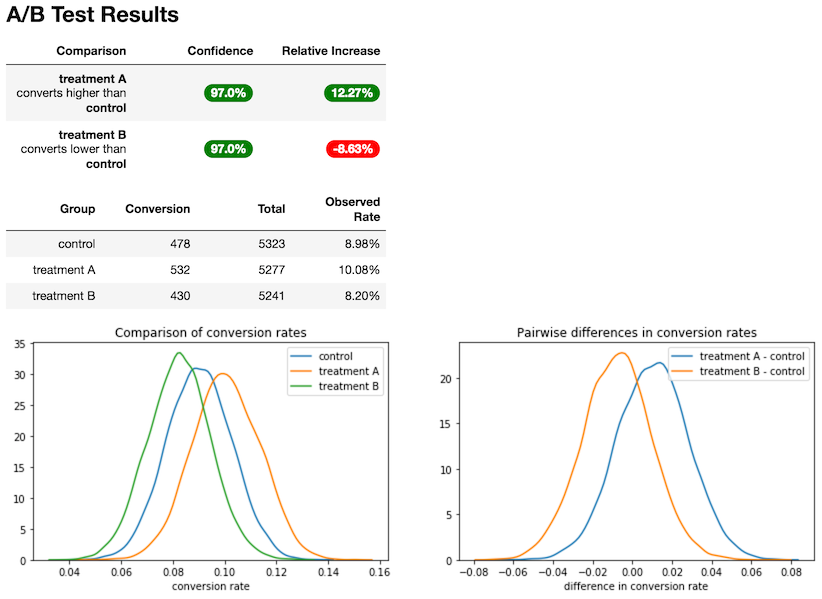
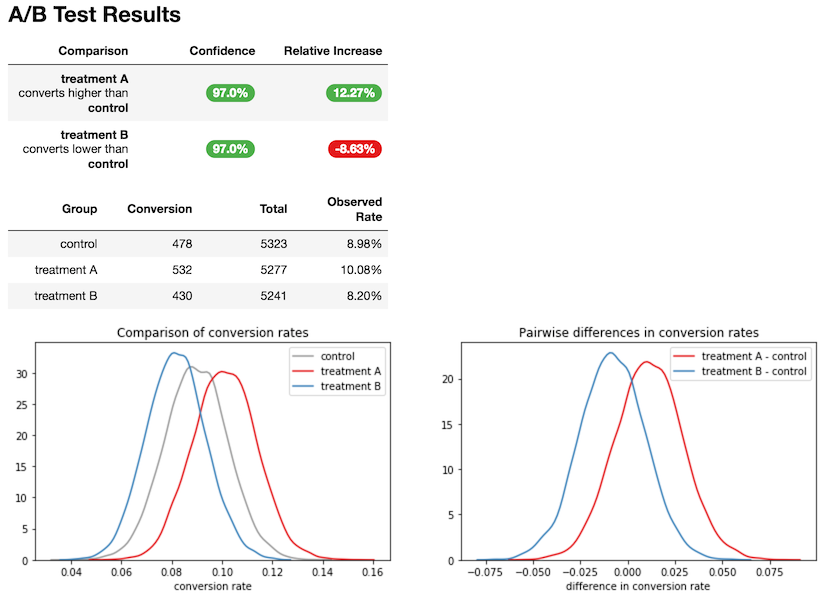
Correct colors (resolves #13)

diff --git a/abtesting/templating.py b/abtesting/templating.py
@@ -1,7 +1,10 @@
 # -*- coding: future_fstrings -*-
 from typing import List
 
+from matplotlib.colors import to_hex
 import pandas as pd
+
+from .util import get_color_palette
 
 
 def build_header_html():
@@ -14,6 +17,9 @@ def build_summary_rows(df: pd.DataFrame):
     control_name = control_data.group
     control_rate = control_data.conversion / control_data.total
     confidence = 0.97
+
+    colors = get_color_palette()
+    red, green = colors[0], colors[2]
 
     summary_rows = []
     for _, row in df.iloc[1:].iterrows():
@@ -30,15 +36,17 @@ def build_summary_rows(df: pd.DataFrame):
                 </td>
                 <td>
                     <span class="badge"
-                          style="background:{'green' if confidence > 0.9
-                                             else 'red'};">
+                          style="background:{to_hex(green)
+                                             if confidence > 0.9
+                                             else to_hex(red)};">
                         {confidence * 100}%
                     </span>
                 </td>
                 <td>
                     <span class="badge"
-                          style="background:{'green' if relative_increase > 0
-                                             else 'red'};">
+                          style="background:{to_hex(green)
+                                             if relative_increase > 0
+                                             else to_hex(red)};">
                         {(relative_increase * 100):.2f}%
                     </span>
                 </td>

diff --git a/abtesting/plotting.py b/abtesting/plotting.py
@@ -2,18 +2,22 @@
 import matplotlib.pyplot as plt
 import seaborn as sns
 
+from .util import get_color_palette
+
 
 def plot_conversion_rates(distributions, shade: bool = False):
     plt.title('Comparison of conversion rates')
-    for group, dist in distributions:
-        sns.kdeplot(dist, shade=shade, label=group)
+    colors = get_color_palette(prepend_neutral_color=True)
+    for color, (group, dist) in zip(colors, distributions):
+        sns.kdeplot(dist, shade=shade, label=group, color=color)
     plt.xlabel('conversion rate')
 
 
 def plot_pairwise_differences(distributions, shade: bool = False):
     plt.title('Pairwise differences in conversion rates')
     control_name, control_dist = distributions[0]
-    for group, dist in distributions[1:]:
-        sns.kdeplot(dist - control_dist, shade=shade,
+    colors = get_color_palette()
+    for color, (group, dist) in zip(colors, distributions[1:]):
+        sns.kdeplot(dist - control_dist, shade=shade, color=color,
                     label=f'{group} - {control_name}')
     plt.xlabel('difference in conversion rate')

diff --git a/abtesting/util.py b/abtesting/util.py
@@ -1,5 +1,14 @@
 from IPython.display import display, HTML
+import numpy as np
+import seaborn as sns
 
 
 def display_html(html: str):
     display(HTML(html))
+
+
+def get_color_palette(prepend_neutral_color:bool=False):
+    colors = sns.color_palette('Set1')
+    if prepend_neutral_color:
+        colors = colors[-1:] + colors[:-1]
+    return colors
